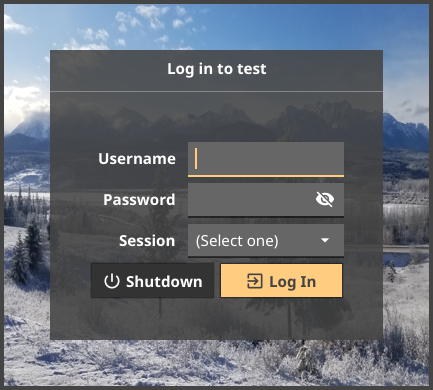
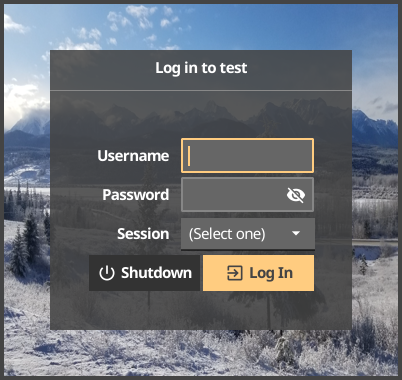
Update to v2.3.0 Fyne look

diff --git a/ui.go b/ui.go
@@ -51,19 +51,22 @@ func (u *ui) askShutdown() {
 	message := widget.NewLabel("Are you sure you want to power off your computer?")
 	message.Alignment = fyne.TextAlignCenter
 
+	reboot := widget.NewButtonWithIcon("Reboot", theme.ViewRefreshIcon(), func() {
+		pop.Hide()
+		_ = exec.Command("shutdown", "-r", "now").Start()
+	})
+	reboot.Importance = widget.WarningImportance
+	shutdown := widget.NewButtonWithIcon("Power off", theme.NewThemedResource(resourcePowerSvg), func() {
+		pop.Hide()
+		_ = exec.Command("shutdown", "-h", "now").Start()
+	})
+	shutdown.Importance = widget.DangerImportance
+
 	buttons := container.NewGridWithColumns(3,
 		widget.NewButtonWithIcon("Cancel", theme.CancelIcon(), func() {
 			pop.Hide()
 		}),
-		widget.NewButtonWithIcon("Reboot", theme.ViewRefreshIcon(), func() {
-			pop.Hide()
-			_ = exec.Command("shutdown", "-r", "now").Start()
-		}),
-		container.NewMax(newButtonBackground(theme.ErrorColor()),
-			widget.NewButtonWithIcon("Power off", theme.NewThemedResource(resourcePowerSvg), func() {
-				pop.Hide()
-				_ = exec.Command("shutdown", "-h", "now").Start()
-			})))
+		reboot, shutdown)
 	body := container.NewVBox(message, container.NewCenter(buttons))
 
 	title := widget.NewLabelWithStyle("Shutdown", fyne.TextAlignLeading, fyne.TextStyle{Bold: true})
@@ -173,7 +176,7 @@ func (u *ui) loadUI() {
 	for _, name := range users {
 		ava := newAvatar(name, func(user string) {
 			for _, a := range avatars {
-				border := a.(*fyne.Container).Objects[0].(*fyne.Container).Objects[0].(*canvas.Rectangle)
+				border := a.(*fyne.Container).Objects[0].(*fyne.Container).Objects[2].(*canvas.Rectangle)
 				border.StrokeColor = theme.ShadowColor()
 				border.Refresh()
 			}
@@ -204,7 +207,7 @@ func (u *ui) loadUI() {
 			continue
 		}
 
-		avatars[i].(*fyne.Container).Objects[0].(*fyne.Container).Objects[1].(*widget.Button).Tapped(&fyne.PointEvent{})
+		avatars[i].(*fyne.Container).Objects[0].(*fyne.Container).Objects[0].(*widget.Button).Tapped(&fyne.PointEvent{})
 		matched = true
 	}
 	if matched {
@@ -313,7 +316,7 @@ func newAvatar(user string, f func(string)) fyne.CanvasObject {
 		ava = canvas.NewImageFromFile(facePath)
 	}
 	ava.SetMinSize(fyne.NewSize(120, 120))
-	border := canvas.NewRectangle(theme.InputBackgroundColor())
+	border := canvas.NewRectangle(color.Transparent)
 	border.StrokeWidth = theme.InputBorderSize()
 	border.StrokeColor = theme.ShadowColor()
 
@@ -324,7 +327,7 @@ func newAvatar(user string, f func(string)) fyne.CanvasObject {
 	})
 	tapper.Importance = widget.LowImportance
 
-	img := container.NewMax(border, tapper, ava)
+	img := container.NewMax(tapper, ava, border)
 	return container.NewVBox(img,
 		widget.NewLabelWithStyle(user, fyne.TextAlignCenter, fyne.TextStyle{Bold: true}),
 	)
